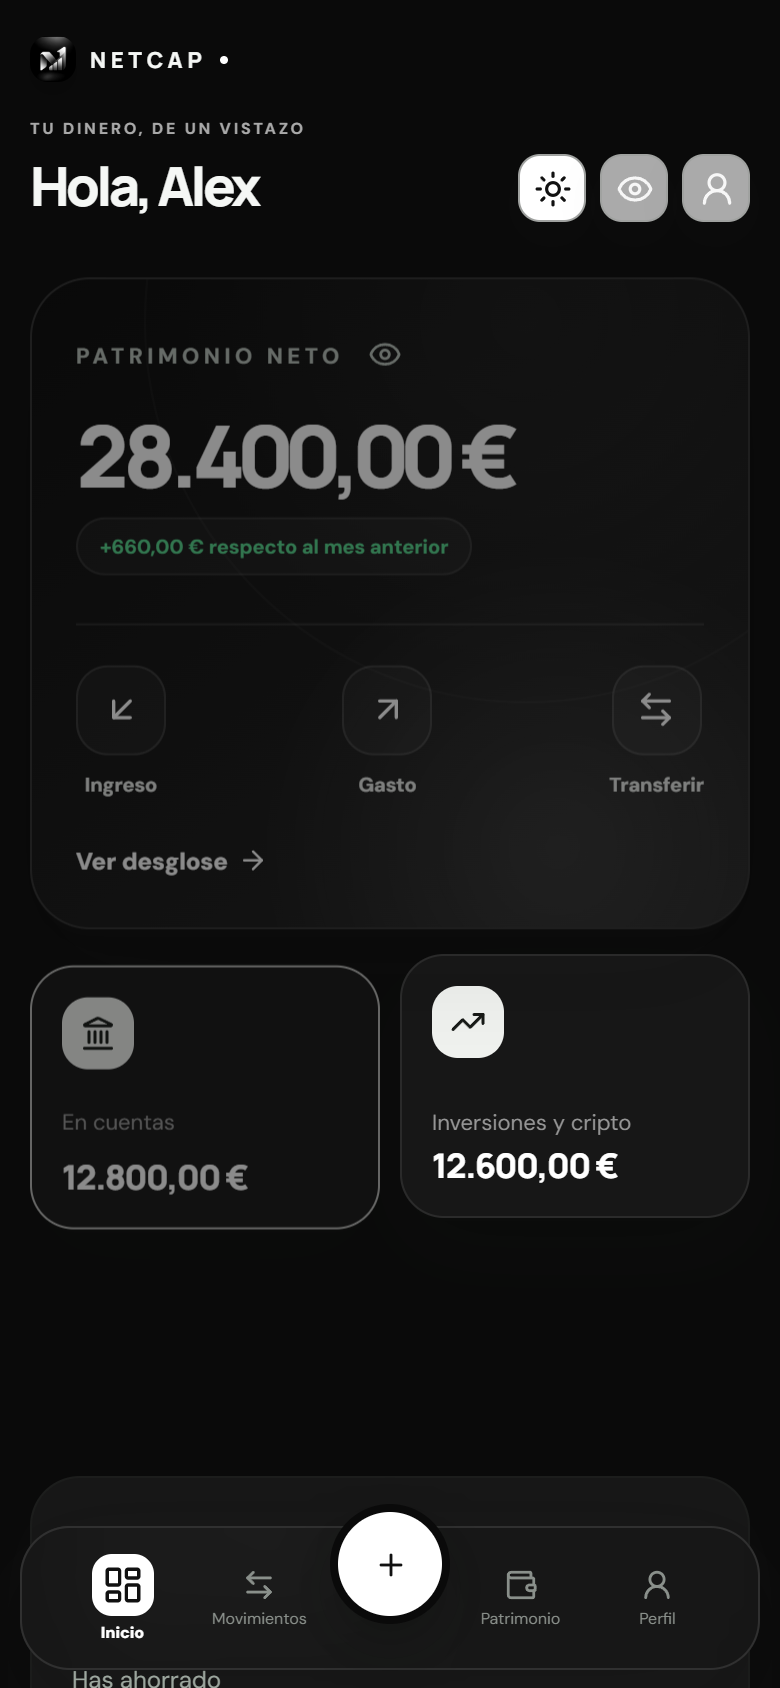
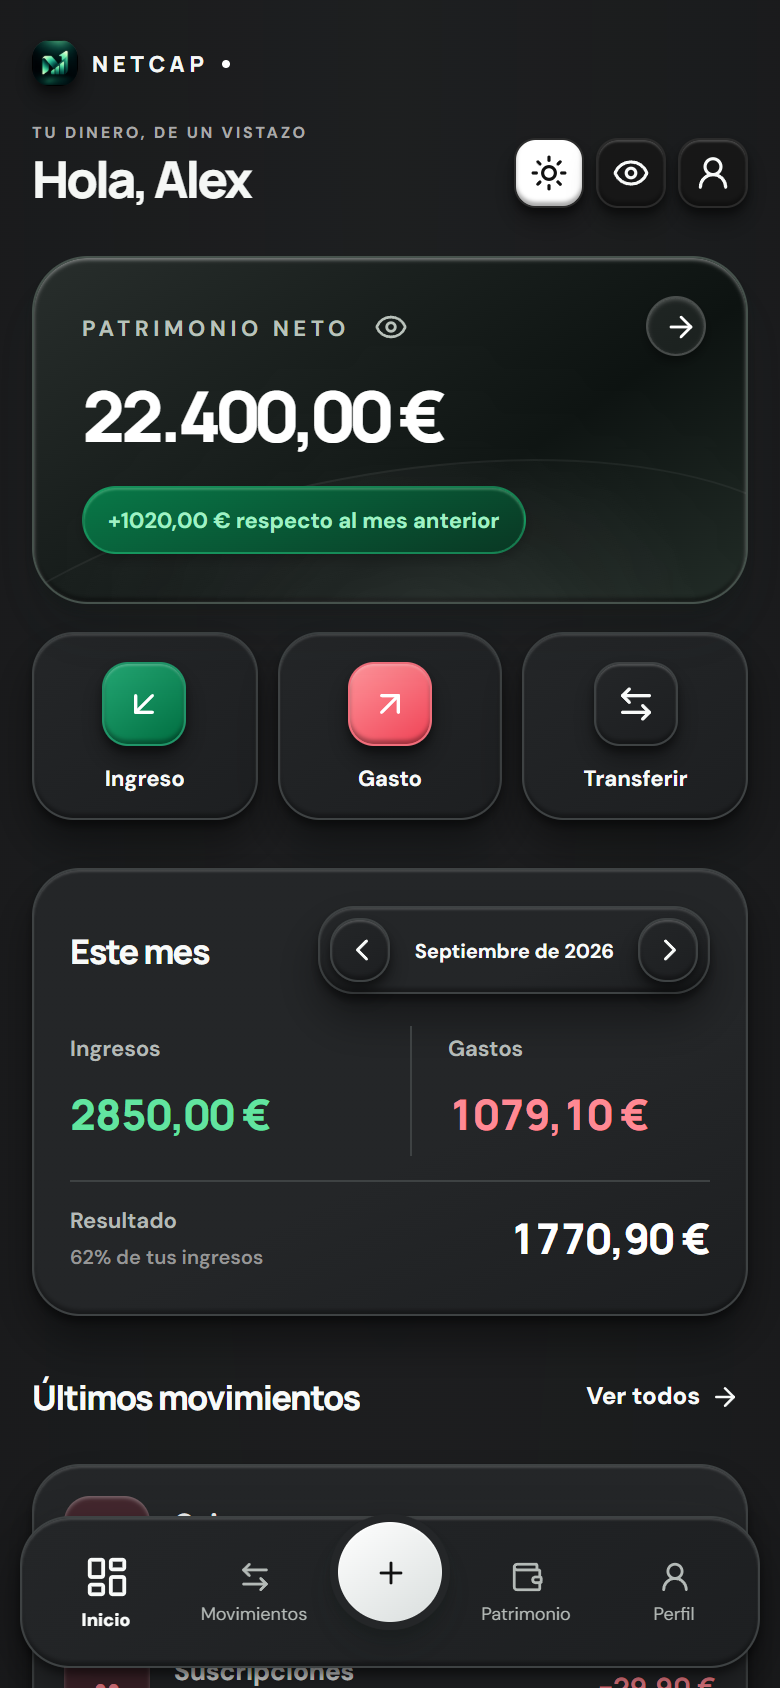
Refresh NetCap screenshots and landing for 0.9.6

diff --git a/netcap/index.html b/netcap/index.html
@@ -5,24 +5,25 @@
 <meta name="viewport" content="width=device-width, initial-scale=1">
 <title>NetCap · Una visión clara de tu dinero</title>
 <meta name="description" content="Organiza tus cuentas, gastos, inversiones y metas con NetCap para Android. Finanzas personales con almacenamiento local, sin conectar tu banco.">
-<meta name="theme-color" content="#101c18">
+<meta name="theme-color" content="#f3f4f0">
 <link rel="canonical" href="https://shardcorp.com/netcap/">
 <meta property="og:type" content="website"><meta property="og:title" content="NetCap · Una visión clara de tu dinero"><meta property="og:description" content="Cuentas, movimientos y patrimonio. Todo en una app para Android, con tus datos guardados en el móvil."><meta property="og:url" content="https://shardcorp.com/netcap/"><meta property="og:image" content="https://shardcorp.com/netcap/assets/social.png"><meta property="og:locale" content="es_ES">
 <link rel="icon" href="assets/logo.png" type="image/png">
 <link rel="preload" href="assets/manrope.woff2" as="font" type="font/woff2" crossorigin>
 <link rel="stylesheet" href="styles.css">
+<link rel="stylesheet" href="marketing.css">
 </head>
 <body>
 <a class="skip" href="#contenido">Saltar al contenido</a>
-<header class="header"><div class="wrap nav"><a class="brand" href="#" aria-label="NetCap, inicio"><img src="assets/logo.png" alt="" width="38" height="38"><span>NetCap</span></a><nav aria-label="Principal"><a href="#funciones">Funciones</a><a href="#privacidad">Privacidad</a><a href="#planes">Gratis y PRO</a></nav><a class="nav-cta" href="#disponibilidad">Próximamente <span aria-hidden="true">↗</span></a></div></header>
+<header class="header"><div class="wrap nav"><a class="brand" href="#" aria-label="NetCap, inicio"><img src="assets/logo.png" alt="" width="38" height="38"><span>NetCap</span></a><nav aria-label="Principal"><a href="#funciones">Funciones</a><a href="#privacidad">Privacidad</a><a href="#planes">Gratis y PRO</a></nav><a class="nav-cta" href="https://play.google.com/store/apps/details?id=es.netcap.finance">Google Play <span aria-hidden="true">↗</span></a></div></header>
 <main id="contenido">
-<section class="hero"><div class="wrap hero-grid"><div class="hero-copy"><div class="eyebrow"><span class="dot"></span> FINANZAS PERSONALES · ANDROID</div><h1>Tu dinero.<br>Una visión<br><span>más clara.</span></h1><p>Cuentas, gastos, inversiones y deudas.<br>Conecta los números de tu vida en un solo lugar.</p><div class="actions"><a class="button primary" href="#disponibilidad">Android · próximamente <span aria-hidden="true">↗</span></a><a class="text-link" href="#funciones">Descubre NetCap <span aria-hidden="true">↓</span></a></div><div class="hero-tags"><span>Sin conectar tu banco</span><span>Datos en tu móvil</span><span>Sin anuncios</span></div></div><div class="hero-art" aria-label="Capturas de la interfaz de NetCap"><div class="orbit orbit-one"></div><div class="orbit orbit-two"></div><div class="floating-tag"><span class="small-dot"></span> Todo empieza con una visión de conjunto.</div><div class="phone hero-phone-back"><img src="assets/estadisticas.png" alt="Estadísticas de NetCap con el balance del mes y desglose de gastos" width="780" height="1688"></div><div class="phone hero-phone-front"><img src="assets/inicio.png" alt="Inicio de NetCap con patrimonio neto, cuentas, inversiones y deudas de ejemplo" width="780" height="1688" fetchpriority="high"></div><div class="example-label">Interfaz real · datos de ejemplo</div></div></div><div class="wrap hero-bottom"><span>MENOS DISPERSIÓN. MÁS PERSPECTIVA.</span><span>Una app para el día a día y para mirar a largo plazo.</span></div></section>
+<section class="hero"><div class="wrap hero-grid"><div class="hero-copy"><div class="eyebrow"><span class="dot"></span> FINANZAS PERSONALES · ANDROID</div><h1>Tu dinero.<br>Una visión<br><span>más clara.</span></h1><p>Cuentas, gastos, inversiones y deudas.<br>Conecta los números de tu vida en un solo lugar.</p><div class="actions"><a class="button primary" href="#disponibilidad">Ver en Google Play <span aria-hidden="true">↗</span></a><a class="text-link" href="#funciones">Descubre NetCap <span aria-hidden="true">↓</span></a></div><div class="hero-tags"><span>Sin conectar tu banco</span><span>Datos en tu móvil</span><span>Sin anuncios</span></div></div><div class="hero-art" aria-label="Capturas de la interfaz de NetCap"><div class="orbit orbit-one"></div><div class="orbit orbit-two"></div><div class="floating-tag"><span class="small-dot"></span> Todo empieza con una visión de conjunto.</div><div class="phone hero-phone-back"><img src="assets/inversiones.png" alt="Cartera de inversiones de NetCap con posiciones de ejemplo" width="780" height="1688"></div><div class="phone hero-phone-front"><img src="assets/inicio.png" alt="Inicio de NetCap con patrimonio neto, cuentas, inversiones y deudas de ejemplo" width="780" height="1688" fetchpriority="high"></div><div class="example-label">Interfaz real · datos de ejemplo</div></div></div><div class="wrap hero-bottom"><span>MENOS DISPERSIÓN. MÁS PERSPECTIVA.</span><span>Una app para el día a día y para mirar a largo plazo.</span></div></section>
 <section class="overview section" id="funciones"><div class="wrap"><div class="section-heading"><div><div class="eyebrow">EL MAPA COMPLETO</div><h2>Más que apuntar gastos.<br>Entiende dónde estás.</h2></div><p>Del café de hoy a tu patrimonio de mañana. NetCap reúne tu actividad diaria y tu evolución financiera.</p></div><div class="bento"><article class="feature feature-wide"><span class="feature-icon" aria-hidden="true">↗</span><h3>Tu patrimonio, de un vistazo.</h3><p>Reúne cuentas, inversiones, bienes y deudas. Consulta tu valor neto, cómo cambia y qué hay detrás de cada cifra.</p><div class="mini-chart" aria-hidden="true"><div class="chart-top"><span>Una perspectiva a largo plazo</span><span>Patrimonio</span></div><svg viewBox="0 0 600 130" preserveAspectRatio="none"><defs><linearGradient id="area" x1="0" y1="0" x2="0" y2="1"><stop offset="0%" stop-color="#65bd94" stop-opacity=".35"/><stop offset="100%" stop-color="#65bd94" stop-opacity="0"/></linearGradient></defs><path d="M0 116 L100 103 L200 81 L300 91 L400 48 L500 35 L600 8 L600 130 L0 130Z" fill="url(#area)"/><path d="M0 116 L100 103 L200 81 L300 91 L400 48 L500 35 L600 8" fill="none" stroke="#28694b" stroke-width="3"/></svg><small>Ilustración de evolución, sin predicciones de rentabilidad.</small></div></article><article class="feature"><span class="feature-icon" aria-hidden="true">⇄</span><h3>Cada movimiento cuenta.</h3><p>Registra ingresos, gastos y transferencias. Importa un CSV, revisa duplicados y concilia tus saldos.</p><div class="chips"><span>Categorías</span><span>Búsqueda</span><span>Adjuntos</span></div></article><article class="feature"><span class="feature-icon" aria-hidden="true">◎</span><h3>Un objetivo con nombre.</h3><p>Define tu meta de ahorro y sigue el progreso. Convierte una intención en algo que puedes medir.</p><div class="goal-demo" aria-hidden="true"><div><span>Mi próximo viaje</span><strong>66 %</strong></div><div class="progress"><i></i></div><small>Ejemplo ilustrativo</small></div></article><article class="feature feature-wide feature-dark"><span class="feature-icon" aria-hidden="true">◐</span><h3>También se adapta a ti.</h3><p>Modo claro y oscuro, varias monedas y una interfaz disponible en español, inglés, francés, alemán y portugués.</p><div class="chips"><span>5 idiomas</span><span>Multidivisa</span><span>Widget Android</span></div></article></div></div></section>
-<section class="screens section"><div class="wrap"><div class="section-heading"><div><div class="eyebrow">ASÍ SE VE NETCAP</div><h2>Los números, con contexto.</h2></div><p>Una interfaz pensada para encontrar lo importante. Capturas reales de la app con datos ficticios.</p></div><div class="poster-grid"><figure class="poster"><figcaption><span>01 / PATRIMONIO</span><h3>El conjunto.<br>Y cada detalle.</h3></figcaption><div class="phone"><img src="assets/patrimonio.png" alt="Pantalla de Patrimonio de NetCap con el reparto de cuentas, inversiones, criptomonedas y deudas" width="780" height="1688" loading="lazy"></div></figure><figure class="poster poster-mint"><figcaption><span>02 / MOVIMIENTOS</span><h3>Tu día a día,<br>bien ordenado.</h3></figcaption><div class="phone"><img src="assets/movimientos.png" alt="Historial de movimientos de NetCap con categorías e importes de ejemplo" width="780" height="1688" loading="lazy"></div></figure><figure class="poster poster-dark"><figcaption><span>03 / MODO OSCURO</span><h3>La misma claridad.<br>Otra luz.</h3></figcaption><div class="phone"><img src="assets/oscuro.png" alt="Pantalla de Inicio de NetCap en modo oscuro" width="780" height="1688" loading="lazy"></div></figure></div></div></section>
+<section class="screens section"><div class="wrap"><div class="section-heading"><div><div class="eyebrow">ASÍ SE VE NETCAP</div><h2>Los números, con contexto.</h2></div><p>Una interfaz pensada para encontrar lo importante. Capturas reales de la app con datos ficticios.</p></div><div class="poster-grid"><figure class="poster"><figcaption><span>01 / PATRIMONIO</span><h3>El conjunto.<br>Y cada detalle.</h3></figcaption><div class="phone"><img src="assets/patrimonio.png" alt="Pantalla de Patrimonio de NetCap con el reparto de cuentas, inversiones, criptomonedas y deudas" width="780" height="1688" loading="lazy"></div></figure><figure class="poster poster-investments"><figcaption><span>02 / INVERSIONES</span><h3>Tu cartera.<br>En un solo lugar.</h3></figcaption><div class="phone"><img src="assets/inversiones.png" alt="Cartera de NetCap con ETF y criptomonedas de ejemplo" width="780" height="1688" loading="lazy"></div></figure><figure class="poster poster-mint"><figcaption><span>03 / MOVIMIENTOS</span><h3>Tu día a día,<br>bien ordenado.</h3></figcaption><div class="phone"><img src="assets/movimientos.png" alt="Historial de movimientos de NetCap con categorías e importes de ejemplo" width="780" height="1688" loading="lazy"></div></figure><figure class="poster poster-dark"><figcaption><span>04 / MODO OSCURO</span><h3>La misma claridad.<br>Otra luz.</h3></figcaption><div class="phone"><img src="assets/oscuro.png" alt="Pantalla de Inicio de NetCap en modo oscuro" width="780" height="1688" loading="lazy"></div></figure></div></div></section>
 <section class="privacy-section section" id="privacidad"><div class="wrap privacy-grid"><div class="privacy-symbol" aria-hidden="true"><svg viewBox="0 0 180 200"><path d="M90 15 157 43v59c0 44-38 70-67 84-29-14-67-40-67-84V43Z" fill="none" stroke="currentColor" stroke-width="2"/><rect x="63" y="88" width="54" height="45" rx="9" fill="currentColor"/><path d="M74 88V73a16 16 0 0 1 32 0v15" fill="none" stroke="currentColor" stroke-width="6"/><circle cx="90" cy="108" r="4" fill="#dcebe1"/></svg><span>LOCAL POR DISEÑO</span></div><div><div class="eyebrow">TU INFORMACIÓN, BAJO TU CONTROL</div><h2>Finanzas personales.<br>De verdad personales.</h2><p>Los perfiles y registros se guardan en el almacenamiento privado del móvil. No necesitas crear una cuenta de NetCap ni entregar tus credenciales bancarias.</p><ul class="check-list"><li>Consulta y registra tus finanzas sin conexión.</li><li>Protege el acceso con la biometría de Android.</li><li>Exporta copias cifradas con una contraseña.</li><li>Decide cuándo exportar, compartir o borrar tus datos.</li></ul><p class="fineprint">Las cotizaciones, divisas, compras y copias del sistema pueden usar servicios externos. El OCR procesa las imágenes localmente; ML Kit puede enviar métricas técnicas a Google. El bloqueo biométrico no cifra por sí mismo los registros.</p><a class="text-link ink" href="privacidad/">Leer la política de privacidad <span aria-hidden="true">↗</span></a></div></div></section>
-<section class="plans section" id="planes"><div class="wrap"><div class="section-heading"><div><div class="eyebrow">A TU RITMO</div><h2>Empieza con lo esencial.<br>Amplía con PRO.</h2></div><p>Actualmente en pruebas. Las funciones PRO están abiertas en la demo; la suscripción se habilitará más adelante.</p></div><div class="plan-grid"><article class="plan"><span class="plan-tag">NETCAP GRATIS</span><h3>Tu punto de partida.</h3><p>Las herramientas esenciales para llevar tus finanzas.</p><ul class="check-list"><li>1 perfil, hasta 5 posiciones y 1 meta de ahorro.</li><li>Movimientos ilimitados y seguimiento del patrimonio.</li><li>CSV, adjuntos y conciliación de saldos.</li><li>Multidivisa, widget, biometría y copias de datos.</li></ul></article><article class="plan pro"><span class="plan-tag">NETCAP PRO</span><h3>Ve un poco más allá.</h3><p>Más capacidad, análisis y herramientas para planificar.</p><ul class="check-list"><li>Perfiles, posiciones y metas ilimitados.</li><li>Presupuestos, recurrentes y calendario financiero.</li><li>Estadísticas avanzadas, previsión de caja e informes PDF.</li><li>Reglas de categorías, análisis de cartera y OCR de tickets.</li><li>Precios de mercado con tu propia clave de Twelve Data.</li></ul><small>Precio y disponibilidad de la suscripción pendientes de publicación. Twelve Data requiere una clave personal y está sujeto a sus condiciones.</small></article></div></div></section>
-<section class="faq section"><div class="wrap faq-grid"><div><div class="eyebrow">ANTES DE EMPEZAR</div><h2>Las preguntas<br>más habituales.</h2><p>¿Te queda alguna otra?<br><a href="mailto:kerz@shardcorp.com">Escríbenos ↗</a></p></div><div><details><summary>¿NetCap se conecta a mi banco?</summary><p>No. Tú introduces los datos o importas archivos CSV. NetCap no solicita claves bancarias ni accede a tus cuentas reales.</p></details><details><summary>¿Puedo usarla sin Internet?</summary><p>Sí, para registrar movimientos y consultar los datos guardados. Las consultas de mercado, tipos de cambio y compras requieren conexión.</p></details><details><summary>¿Mis datos se sincronizan entre móviles?</summary><p>No hay una nube propia ni sincronización de NetCap. Puedes exportar y restaurar una copia cifrada. Android también puede restaurar perfiles mediante su copia del sistema, según el dispositivo y tus ajustes.</p></details><details><summary>¿Sirve para comprar o vender inversiones?</summary><p>No. NetCap es una herramienta de registro y seguimiento. No ejecuta operaciones ni ofrece asesoramiento personalizado de inversión.</p></details><details><summary>¿Cuándo podré descargarla?</summary><p>NetCap está en fase de pruebas para Android. Publicaremos aquí el enlace de Google Play cuando esté disponible. Puedes consultar el estado escribiendo a kerz@shardcorp.com.</p></details></div></div></section>
-<section class="closing" id="disponibilidad"><div class="wrap"><span class="eyebrow">PRÓXIMAMENTE EN ANDROID</span><h2>Haz espacio<br>para la claridad.</h2><p>Una forma de ver tu dinero que empieza por ti.</p><a class="button primary" href="mailto:kerz@shardcorp.com?subject=Disponibilidad%20de%20NetCap">Consultar disponibilidad <span aria-hidden="true">↗</span></a><small>Sin lista de espera ni registro automático. El botón abre tu correo.</small></div></section>
+<section class="plans section" id="planes"><div class="wrap"><div class="section-heading"><div><div class="eyebrow">A TU RITMO</div><h2>Empieza con lo esencial.<br>Amplía con PRO.</h2></div><p>Un plan gratuito para empezar y una suscripción PRO para ampliar tus herramientas. Consulta los precios y condiciones en Google Play.</p></div><div class="plan-grid"><article class="plan"><span class="plan-tag">NETCAP GRATIS</span><h3>Tu punto de partida.</h3><p>Las herramientas esenciales para llevar tus finanzas.</p><ul class="check-list"><li>1 perfil, hasta 5 posiciones y 1 meta de ahorro.</li><li>Movimientos ilimitados y seguimiento del patrimonio.</li><li>CSV, adjuntos y conciliación de saldos.</li><li>Multidivisa, widget, biometría y copias de datos.</li></ul></article><article class="plan pro"><span class="plan-tag">NETCAP PRO</span><h3>Ve un poco más allá.</h3><p>Más capacidad, análisis y herramientas para planificar.</p><ul class="check-list"><li>Perfiles, posiciones y metas ilimitados.</li><li>Presupuestos, recurrentes y calendario financiero.</li><li>Estadísticas avanzadas, previsión de caja e informes PDF.</li><li>Reglas de categorías, análisis de cartera y OCR de tickets.</li><li>Precios de mercado con tu propia clave de Twelve Data.</li></ul><small>Suscripción mensual o anual gestionada con Google Play. Twelve Data requiere una clave personal y está sujeto a sus condiciones.</small></article></div></div></section>
+<section class="faq section"><div class="wrap faq-grid"><div><div class="eyebrow">ANTES DE EMPEZAR</div><h2>Las preguntas<br>más habituales.</h2><p>¿Te queda alguna otra?<br><a href="mailto:kerz@shardcorp.com">Escríbenos ↗</a></p></div><div><details><summary>¿NetCap se conecta a mi banco?</summary><p>No. Tú introduces los datos o importas archivos CSV. NetCap no solicita claves bancarias ni accede a tus cuentas reales.</p></details><details><summary>¿Puedo usarla sin Internet?</summary><p>Sí, para registrar movimientos y consultar los datos guardados. Las consultas de mercado, tipos de cambio y compras requieren conexión.</p></details><details><summary>¿Mis datos se sincronizan entre móviles?</summary><p>No hay una nube propia ni sincronización de NetCap. Puedes exportar y restaurar una copia cifrada. Android también puede restaurar perfiles mediante su copia del sistema, según el dispositivo y tus ajustes.</p></details><details><summary>¿Sirve para comprar o vender inversiones?</summary><p>No. NetCap es una herramienta de registro y seguimiento. No ejecuta operaciones ni ofrece asesoramiento personalizado de inversión.</p></details><details><summary>¿Cuándo podré descargarla?</summary><p>Consulta la disponibilidad en Google Play. El acceso durante las pruebas puede requerir una invitación al grupo de testers.</p></details></div></div></section>
+<section class="closing" id="disponibilidad"><div class="wrap"><span class="eyebrow">NETCAP PARA ANDROID</span><h2>Haz espacio<br>para la claridad.</h2><p>Una forma de ver tu dinero que empieza por ti.</p><a class="button primary" href="https://play.google.com/store/apps/details?id=es.netcap.finance">Ver en Google Play <span aria-hidden="true">↗</span></a><small>Disponibilidad según el país y el canal de pruebas de Google Play.</small></div></section>
 </main>
 <footer><div class="wrap footer-row"><a class="brand" href="#"><img src="assets/logo.png" alt="" width="30" height="30"><span>NetCap</span></a><p>Una aplicación de Shardcorp.</p><div><a href="privacidad/">Privacidad</a><a href="mailto:kerz@shardcorp.com">Contacto</a><a href="/">Shardcorp ↗</a></div></div><div class="wrap footer-bottom"><span>© 2026 NetCap · Alex Garcia Carcereny</span><span>Capturas con datos ficticios. Funciones y disponibilidad sujetas a la versión publicada.</span></div></footer>
 </body></html>

diff --git a/netcap/marketing.css b/netcap/marketing.css
@@ -1,0 +1,26 @@
+:root{--ink:#151817;--dark:#171b19;--green:#b6e7c9;--muted:#626b65;--paper:#f3f4f0;--line:#d9ded9}
+.header{background:#f3f4f0;color:var(--ink);border-color:#15181712}
+.nav nav{color:#59625c}.nav-cta{border-color:#d4dbd4;background:#fff;box-shadow:0 4px 8px #1c261c12}
+.hero{background:radial-gradient(ellipse at 90% 50%,#dce6dc,transparent 65%),var(--paper);color:var(--ink)}
+.hero .eyebrow{color:#566a5b}.hero-copy>p{color:#626b65}h1{font-weight:800;letter-spacing:-.06em}h1 span{color:#25764e}
+.primary{background:#171b19;color:#fff;box-shadow:0 9px 16px #15221a26,inset 0 1px 1px #ffffff50}
+.button:hover{background:#303c34}.text-link:hover,.nav nav a:hover{color:#237548}
+.hero-tags{color:#626b65}.hero-tags span:before{color:#25764e}.hero-bottom{border-color:#15181718;color:#626b65}
+.floating-tag{background:#ffffffa8;border-color:#d4ded5;color:#4e6254;box-shadow:0 7px 20px #1c261c12}
+.orbit{border-color:#60776825}.example-label{color:#626b65}.phone{border-color:#fff;box-shadow:0 24px 36px #141c182c,0 1px 0 #fff}
+.hero-phone-front{box-shadow:0 30px 55px #15201b35}.hero-phone-back{box-shadow:0 24px 35px #15201b26}
+.feature{background:linear-gradient(145deg,#fff,#f7f8f4);box-shadow:0 15px 25px #17251b14,inset 0 1px 0 #fff;border:1px solid #fff}
+.feature-icon{border-color:#d9dfda;background:#fff;color:#151817;box-shadow:0 4px 7px #17251b14}
+.feature-dark{background:#1c2420;border-color:#2d3730}.feature-dark .feature-icon{color:#d9e5de;background:#2b342f;border-color:#4a5a4e}
+.feature-dark p{color:#c3d0c7}.feature-dark .chips span{background:#ffffff10}
+.poster-grid{grid-template-columns:repeat(2,minmax(0,1fr));gap:28px}
+.poster{height:auto;background:linear-gradient(145deg,#fff,#ecefe8);padding:32px 30px 30px;border:1px solid #fff;box-shadow:0 18px 25px #17251b15}
+.poster .phone{max-width:280px}.poster-investments{background:linear-gradient(145deg,#e0e9df,#f4f6ee)}
+.poster-mint{background:linear-gradient(145deg,#f0f2ed,#e0e9df)}.poster-dark{background:linear-gradient(145deg,#282f2b,#171b19);border-color:#3b443e}
+.poster-dark .phone{border-color:#3e4741}.poster-dark figcaption span{color:#bdd2c2}
+.privacy-section{background:#e8eee5}.privacy-symbol{border-color:#bccfbd}.plans{background:var(--paper)}
+.plan{box-shadow:0 15px 25px #17251b15;border-color:#fff}.pro{background:linear-gradient(145deg,#29312c,#171b19);border:1px solid #3b443e}
+.closing{background:radial-gradient(ellipse at 50% 110%,#304437,transparent 60%),#171b19}.closing .primary{background:#fff;color:#171b19}
+.closing .primary:hover{background:#dcefe1}footer{background:#171b19}
+@media(max-width:800px){.poster-grid{grid-template-columns:1fr}.poster{height:auto;padding-bottom:30px}.poster .phone{max-width:310px}}
+@media(prefers-reduced-motion:reduce){html{scroll-behavior:auto}.button{transition:none}.button:hover{transform:none}}
